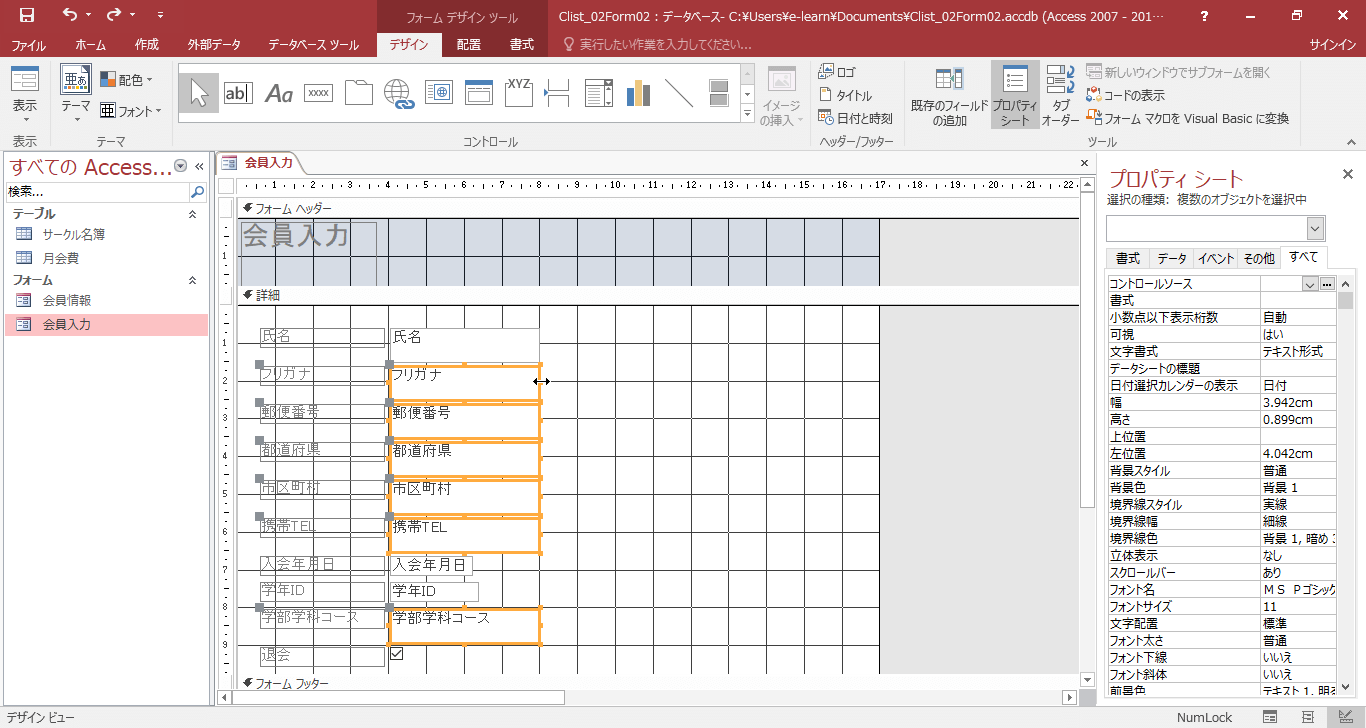
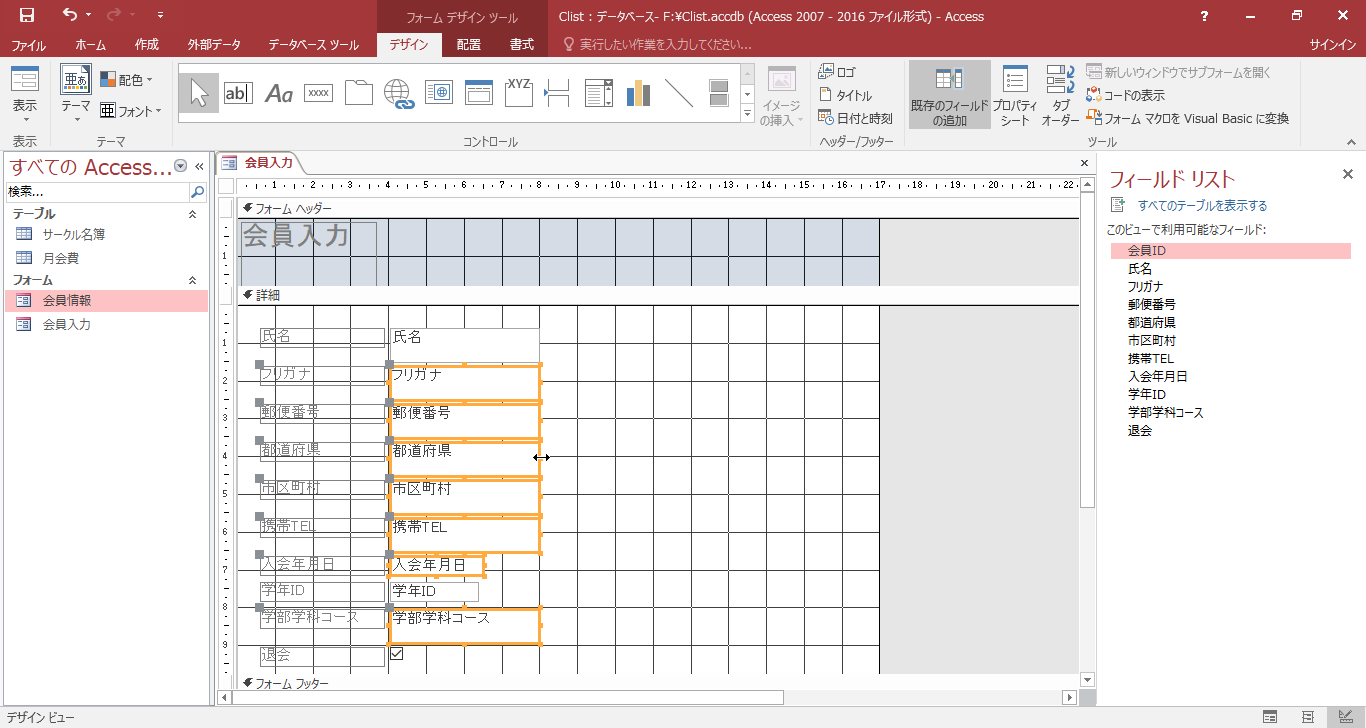
デザインに関する説明部分の修正　#958
* controldesign5,6,7とそれに関わる説明文を修正しました。
* 課題の文章も説明文と整合するように修正しました。

diff --git a/contents/office2016/access/02/index.md b/contents/office2016/access/02/index.md
@@ -79,7 +79,7 @@ purposes:
 
 {% screenshot controldesign4.png "[氏名]フィールドの縮小" %}
 
-&#9314; その他の項目も同様に縮めます。
+&#9314; その他の項目も同様に8付近まで縮めます。また、"入会年月日"フィールドを6.5付近まで伸ばしてください。ドラッグしてすることでフィールドをまとめて選択できます。
 
 {% screenshot controldesign5.png "項目の縮小" %}
 
@@ -131,7 +131,7 @@ purposes:
 
 {% screenshot new2.png "データの入力" %}
 
-&#9314; 会員入力フォームを閉じて、サークル名簿を開きます。
+&#9314; 会員入力フォームを閉じて、サークル名簿を開きます。入力したデータが追加されました。
 
 {% screenshot new3.png "データ入力後のサークル名簿" %}
 
@@ -146,8 +146,8 @@ purposes:
 3. "会員名簿"テーブルを基に、[フォームウィザード]を使って、以下のような単票形式のフォームを作成してください。
     -   表示するフィールド：会員ＩＤを除く全て
     -   フォーム名：会員入力
-4. 全てのフィールドのサイズを縮めます。位置の目安は水平ルーラーの目盛りの"9"にしてください。
-5. "自宅TEL"、"入会年月日"、"会員タイプ"、"職種"、"退会"を他のフィールドの横に動かしてください。位置の目安は水平ルーラーの目盛りの"10"にしてください。
-6. "市区町村"のテキストボックスのサイズを広げる。位置の目安は水平ルーラーの目盛りの"11"にしてください。
+4. "入会年月日"、"会員タイプ"、"退会"以外のテキストボックスを水平ルーラーの目盛りの"8"まで縮めてください。"入会年月日"は"6.5"付近まで伸ばしてください。
+5. "自宅TEL"、"入会年月日"、"会員タイプ"、"職種"、"退会"を右上に動かしてください。背景のサイズは自動で調整されます。
+6. "市区町村"のテキストボックスのサイズを広げてください。位置の目安は水平ルーラーの目盛りの"11"にしてください。
 7. タイトルの下に `会員名簿への入力` というラベルを追加してください。フォントサイズは `10` ポイントに変更します。
 8. フォームを上書き保存し、"会員入力"フォームを閉じます。
